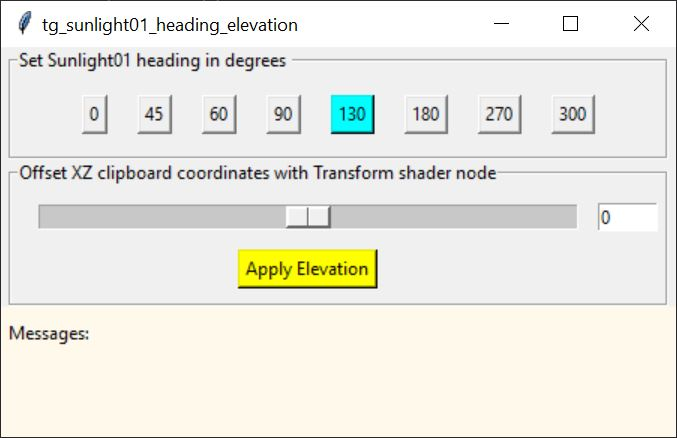
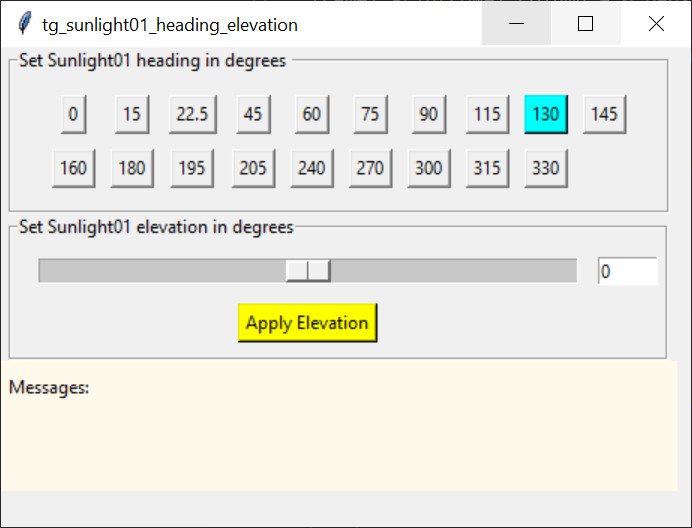
Fixed label, added more heading buttons

diff --git a/tg_sunlight01_heading_elevation.py b/tg_sunlight01_heading_elevation.py
@@ -3,10 +3,10 @@ import terragen_rpc as tg
 
 gui = Tk()
 gui.title("tg_sunlight01_heading_elevation")
-gui.geometry("450x260")
+gui.geometry("460x320")
 
-frame1 = LabelFrame(gui,text="Set Sunlight01 heading in degrees ",padx=37,pady=10)
-frame2 = LabelFrame(gui,text="Offset XZ clipboard coordinates with Transform shader node",padx=5,pady=5)
+frame1 = LabelFrame(gui,text="Set Sunlight01 heading in degrees ",padx=22,pady=10)
+frame2 = LabelFrame(gui,text="Set Sunlight01 elevation in degrees",padx=5,pady=5)
 frame3 = LabelFrame(gui,relief=FLAT,bg="#FFF9EC") # Errors and messages
 
 frame1.grid(row=1,column = 0,padx=5)
@@ -88,14 +88,27 @@ sun_elevation = IntVar()
 operation_message = StringVar()
 
 # Sunlight heading section
-button1 = Button(frame1,text="0",command=lambda: set_sun_heading(0)).grid(row=0,column=0,padx=10,pady=5)
-button2 = Button(frame1,text="45",command=lambda: set_sun_heading(45)).grid(row=0,column=1,padx=10,pady=5)
-button3 = Button(frame1,text="60",command=lambda: set_sun_heading(60)).grid(row=0,column=2,padx=10,pady=5)
-button4 = Button(frame1,text="90",command=lambda: set_sun_heading(90)).grid(row=0,column=3,padx=10,pady=5)
-button5 = Button(frame1,text="130",bg='cyan',command=lambda: set_sun_heading(130)).grid(row=0,column=4,padx=10,pady=5)
-button6 = Button(frame1,text="180",command=lambda: set_sun_heading(180)).grid(row=0,column=5,padx=10,pady=5)
-button7 = Button(frame1,text="270",command=lambda: set_sun_heading(270)).grid(row=0,column=6,padx=10,pady=5)
-button8 = Button(frame1,text="300",command=lambda: set_sun_heading(300)).grid(row=0,column=7,padx=10,pady=5)
+button1 = Button(frame1,text="0",command=lambda: set_sun_heading(0)).grid(row=0,column=0,padx=5,pady=5)
+button2 = Button(frame1,text="15",command=lambda: set_sun_heading(15)).grid(row=0,column=1,padx=5,pady=5)
+button3 = Button(frame1,text="22.5",command=lambda: set_sun_heading(22.5)).grid(row=0,column=2,padx=5,pady=5)
+button4 = Button(frame1,text="45",command=lambda: set_sun_heading(45)).grid(row=0,column=3,padx=5,pady=5)
+button5 = Button(frame1,text="60",command=lambda: set_sun_heading(60)).grid(row=0,column=4,padx=5,pady=5)
+button6 = Button(frame1,text="75",command=lambda: set_sun_heading(75)).grid(row=0,column=5,padx=5,pady=5)
+button7 = Button(frame1,text="90",command=lambda: set_sun_heading(90)).grid(row=0,column=6,padx=5,pady=5)
+button8 = Button(frame1,text="115",command=lambda: set_sun_heading(115)).grid(row=0,column=7,padx=5,pady=5)
+button9 = Button(frame1,text="130",bg="cyan",command=lambda: set_sun_heading(130)).grid(row=0,column=8,padx=5,pady=5)
+button10 = Button(frame1,text="145",command=lambda: set_sun_heading(145)).grid(row=0,column=9,padx=5,pady=5)
+
+button11 = Button(frame1,text="160",command=lambda: set_sun_heading(160)).grid(row=1,column=0,padx=5,pady=5)
+button12 = Button(frame1,text="180",command=lambda: set_sun_heading(180)).grid(row=1,column=1,padx=5,pady=5)
+button13 = Button(frame1,text="195",command=lambda: set_sun_heading(195)).grid(row=1,column=2,padx=5,pady=5)
+button14 = Button(frame1,text="205",command=lambda: set_sun_heading(205)).grid(row=1,column=3,padx=5,pady=5)
+button15 = Button(frame1,text="240",command=lambda: set_sun_heading(240)).grid(row=1,column=4,padx=5,pady=5)
+button16 = Button(frame1,text="270",command=lambda: set_sun_heading(270)).grid(row=1,column=5,padx=5,pady=5)
+button17 = Button(frame1,text="300",command=lambda: set_sun_heading(300)).grid(row=1,column=6,padx=5,pady=5)
+button18 = Button(frame1,text="315",command=lambda: set_sun_heading(315)).grid(row=1,column=7,padx=5,pady=5)
+button19 = Button(frame1,text="330",command=lambda: set_sun_heading(330)).grid(row=1,column=8,padx=5,pady=5)
+
 
 # Sunlight elevation section
 slider1 = Scale(frame2,from_= -90, to = 90, variable=sun_elevation,orient=HORIZONTAL,showvalue=0,length=360).grid(row=0,column=0,padx=10,pady=5)
